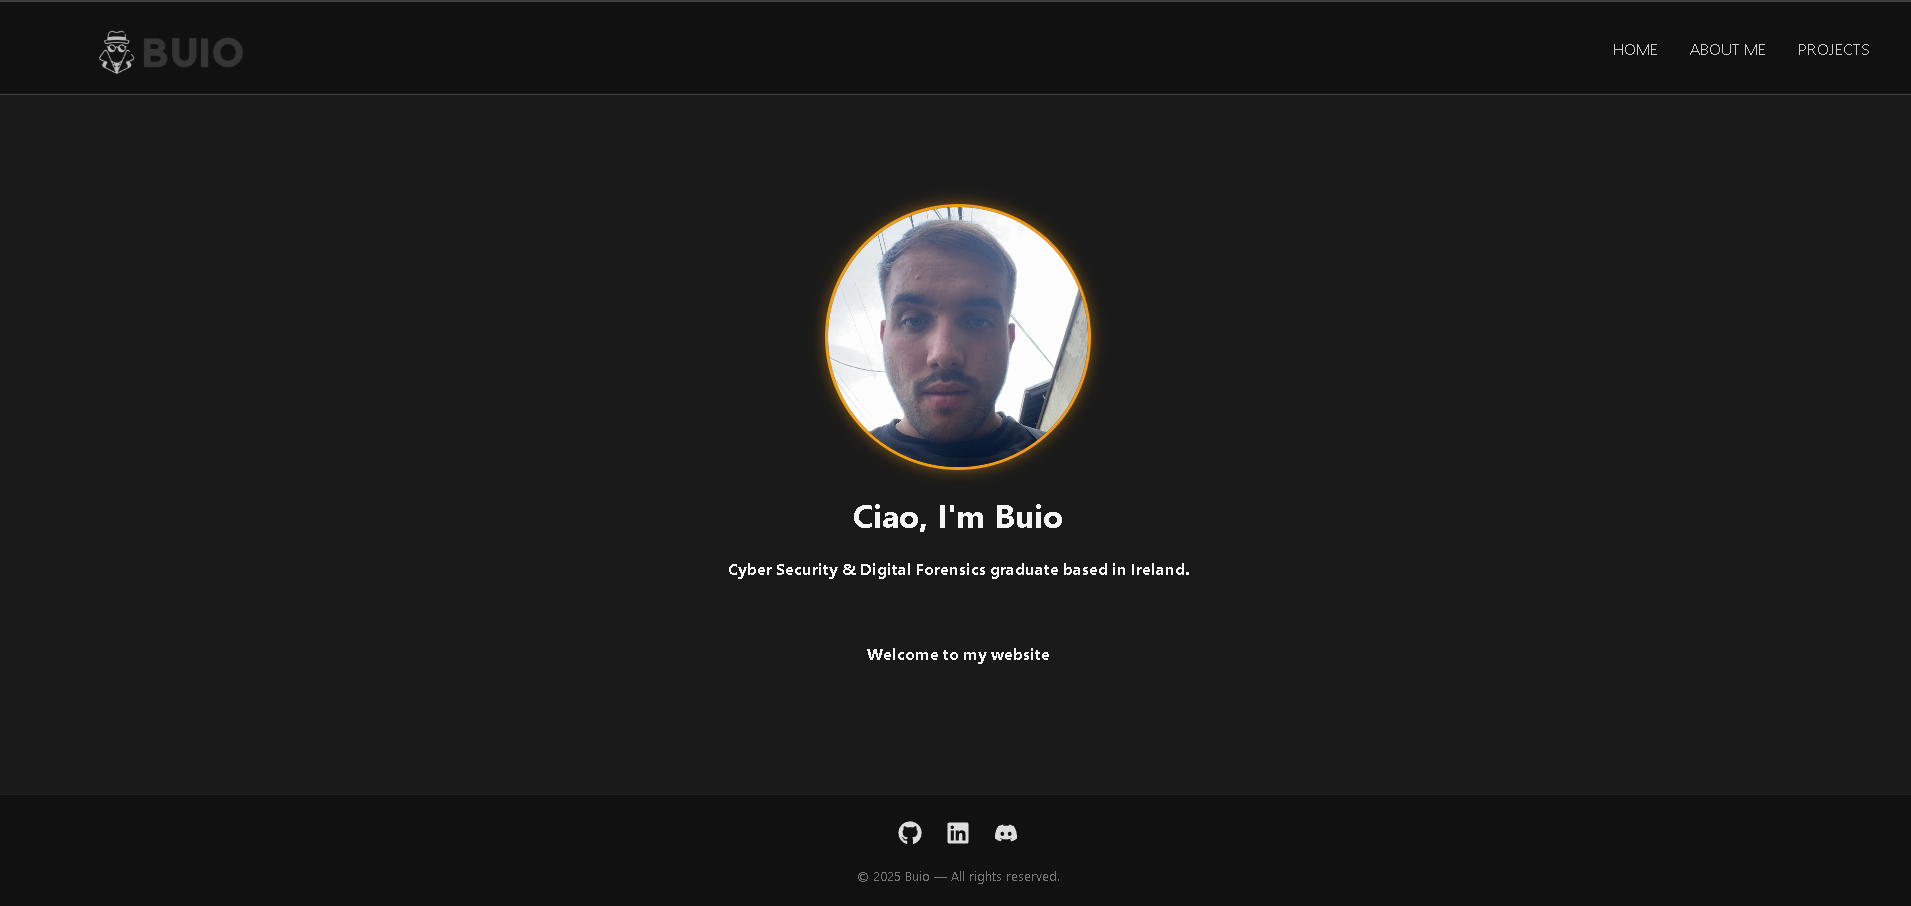
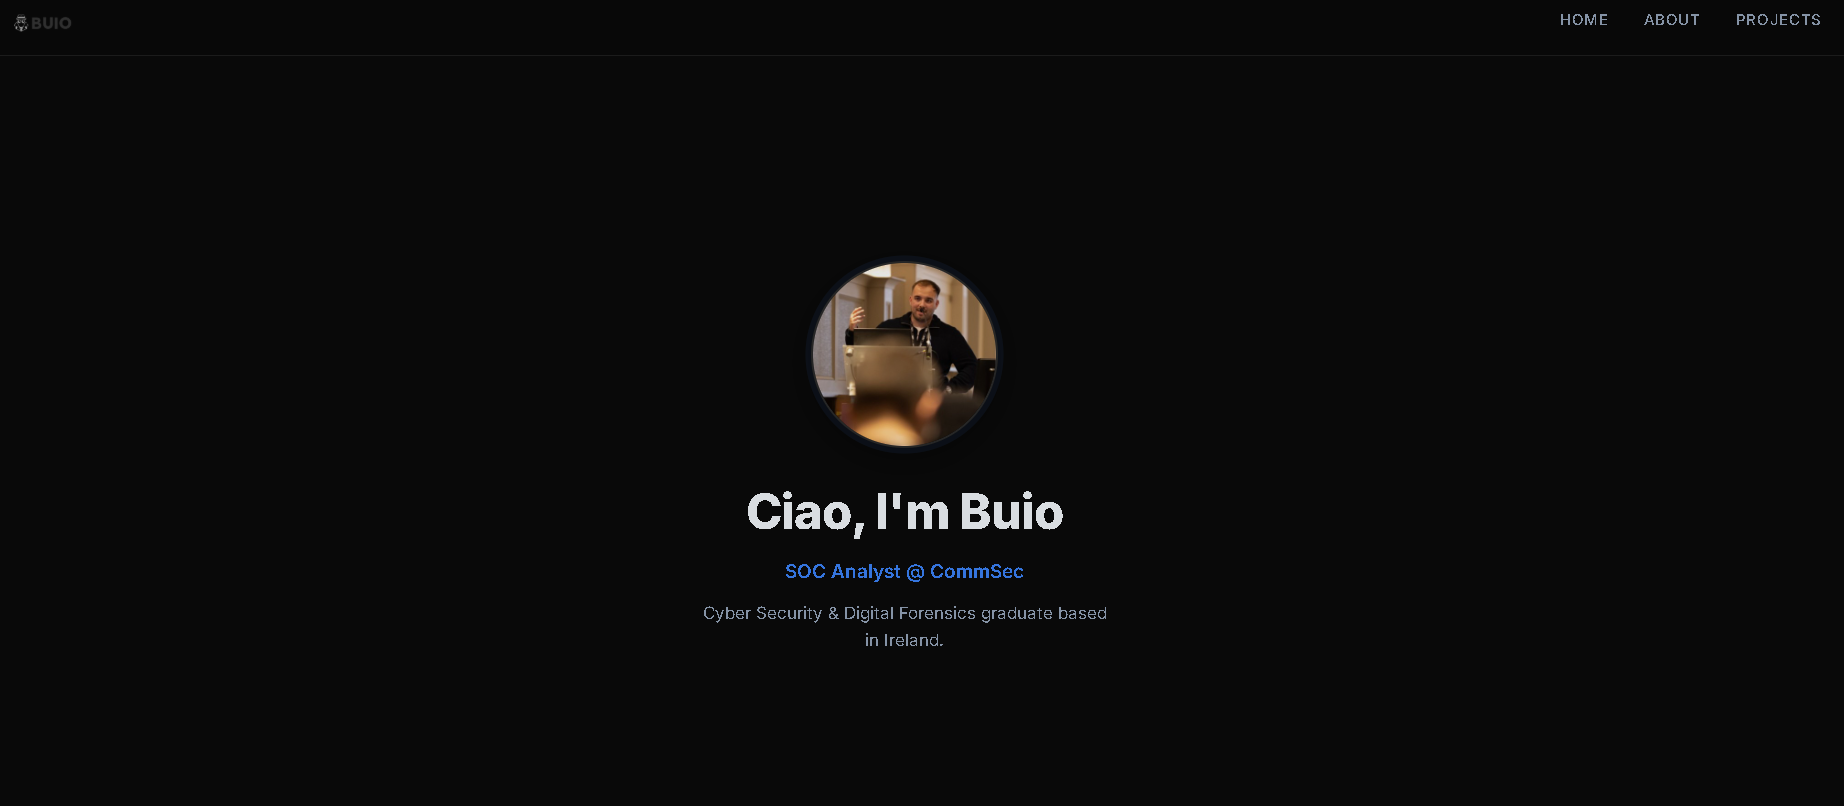
Updating Website

diff --git a/src/pages/about.js b/src/pages/about.js
@@ -59,11 +59,15 @@ const skills = [
   { icon: '/skills logo/n8n.png', name: 'Automation' }
 ];
 
+const speakerEvents = [
+  'Bsides Belfast 2026 - The Silent Risk in Your Browser: Detecting Malicious Extensions',
+];
+
 const pastEvents = [
   'Bsides Dublin 2026',
   'Bsides Galway 2026',
   'Dub|Sec Meetups',
-  'HackInBo — Bologna 2025',
+  'HackInBo - Bologna 2025',
   'Bsides Dublin 2025',
   'ZeroDays 2025 👥 Higher Score on my team',
   'Cyber Security AI & Software Development 2025',
@@ -76,14 +80,14 @@ const pastEvents = [
 
 const futureEvents = [
   'WHY2026',
-  'RomHack — Rome',
+  'RomHack - Rome',
   'Bsides London',
   'Bsides Frankfurt',
-  'Cbase — Berlin',
+  'Cbase - Berlin',
 ];
 
 const volunteering = [
-  'Naughty or Nice CTF — on the day helper',
+  'Naughty or Nice CTF - on the day helper',
   "Ethical Hacker Society's Event Organizer",
   'CTF on the day helper for Cyber Security students from France',
 ];
@@ -112,6 +116,10 @@ const About = () => {
       <p className="about-bio">
         I love attending information security conferences and CTF events. If it's reachable, you'll see me there.
       </p>
+            <p className="events-subheading">Speaker</p>
+      <ul className="events-list">
+        {speakerEvents.map((e, i) => <li key={i}>{e}</li>)}
+      </ul>
       <p className="events-subheading">Past events</p>
       <ul className="events-list">
         {pastEvents.map((e, i) => <li key={i}>{e}</li>)}
